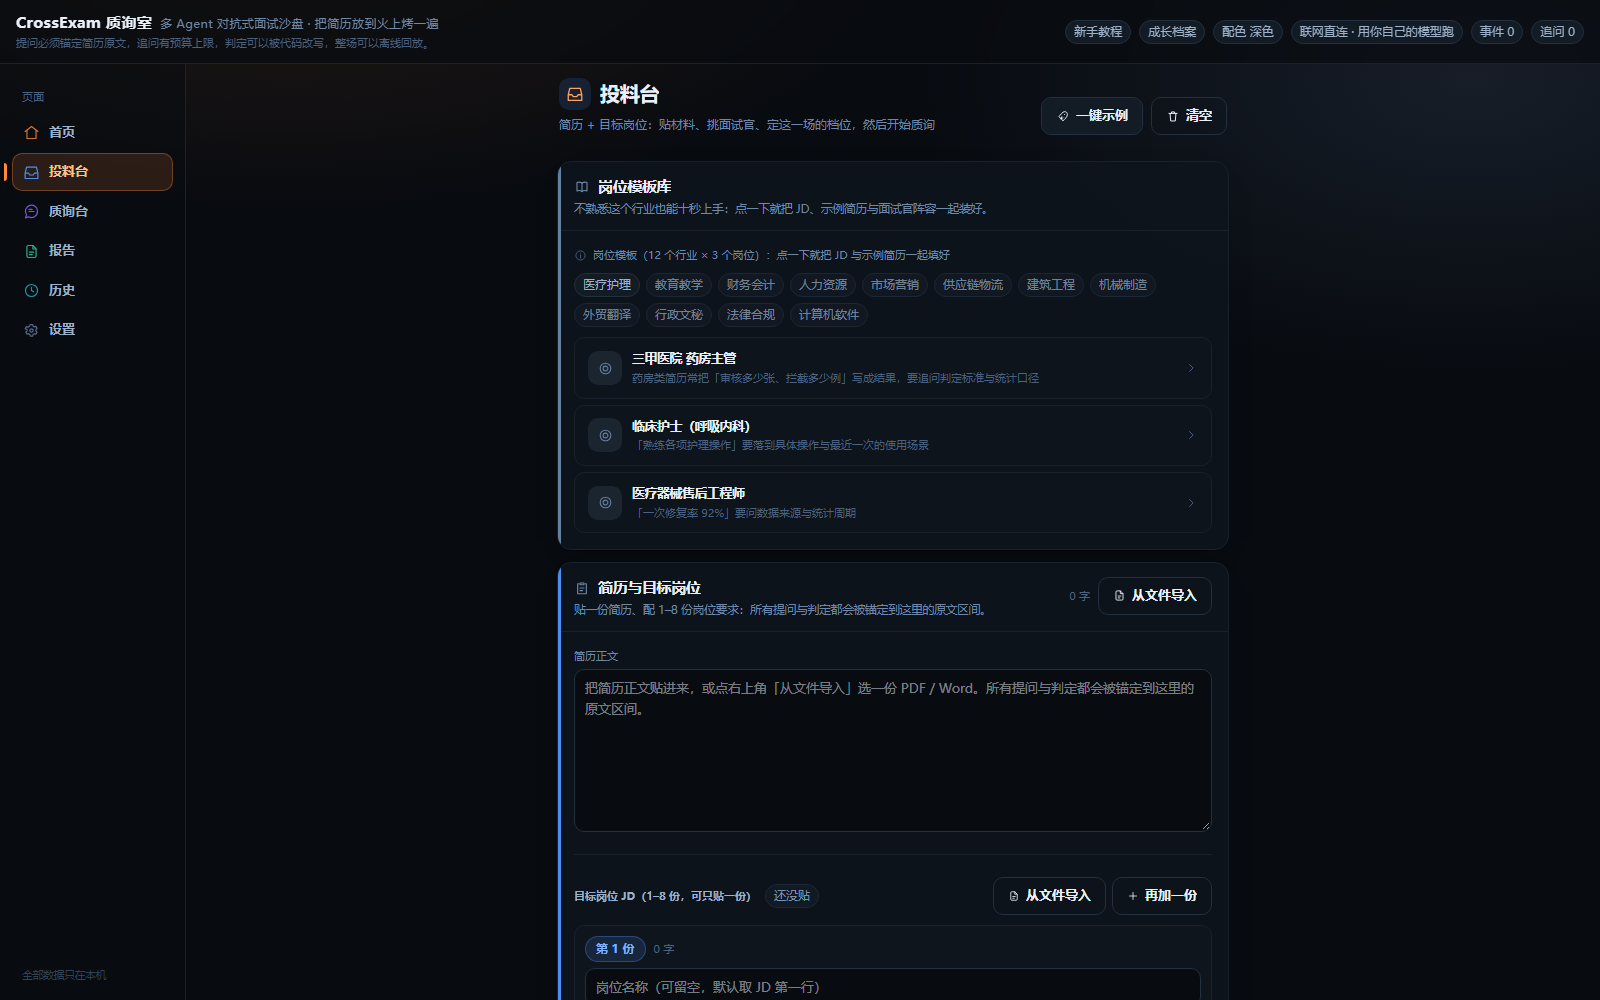
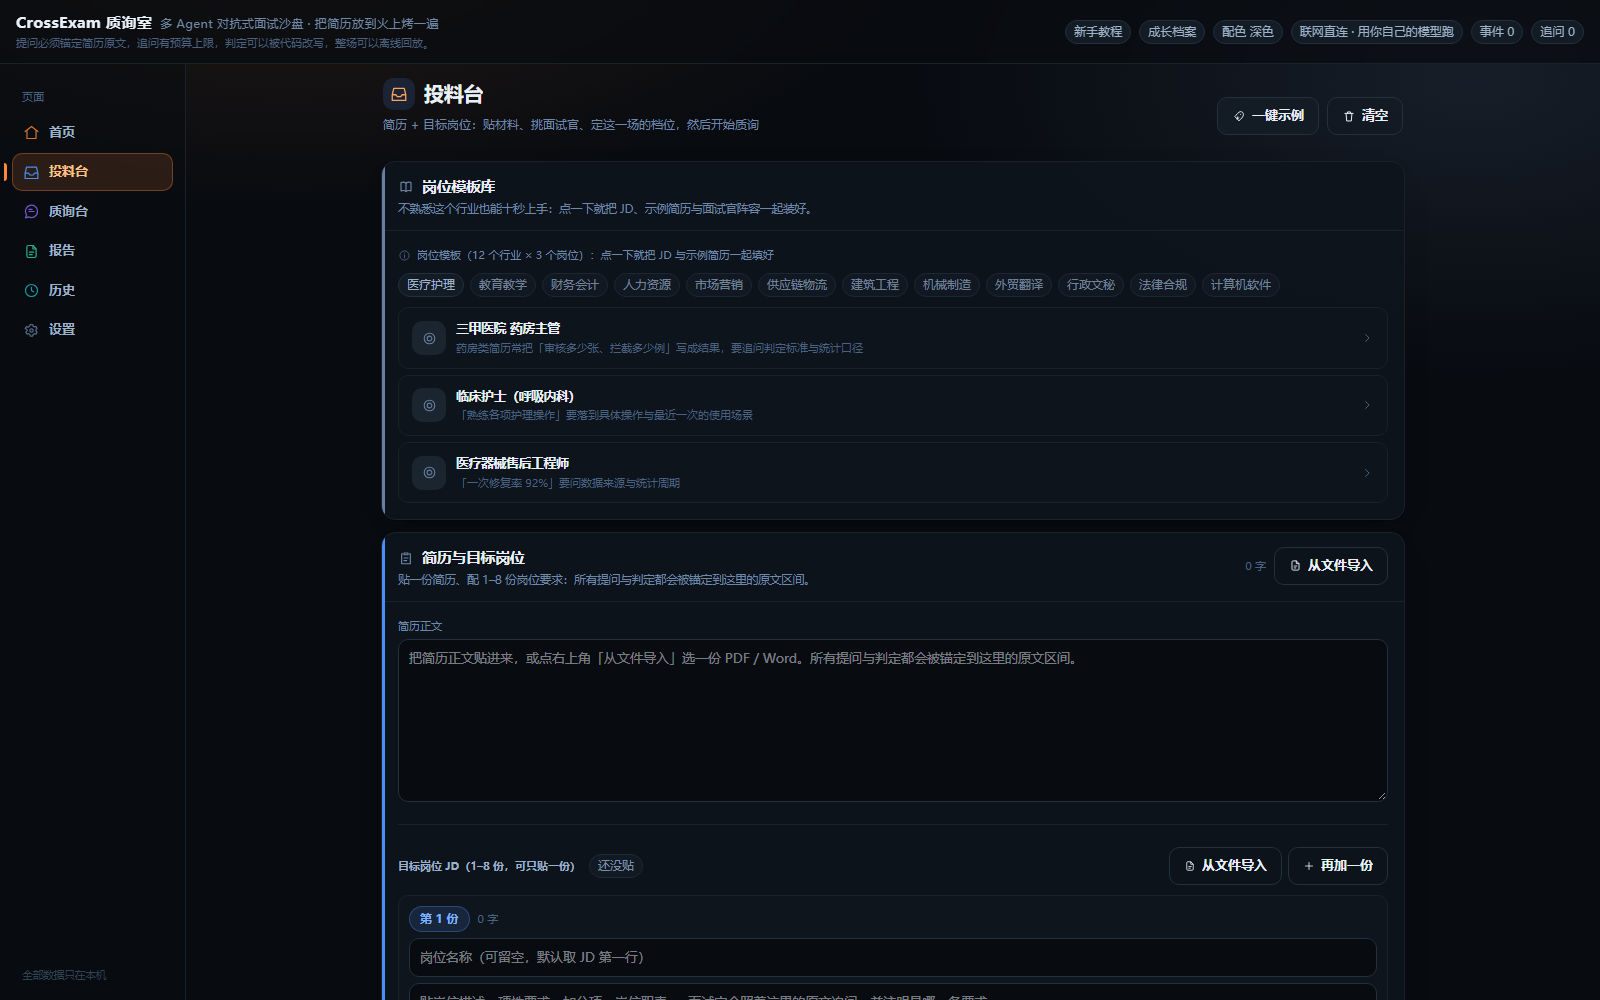
feat(web): 首页给出视觉焦点，单栏页放宽到 5xl
六个页面原来一样重，眼睛没有落点；1600 宽下正文只占约 900px，两侧空得发慌。
主视觉卡掺 7% 强调色并把主按钮放大，五个入口改成带彩色图标方块的磁贴，
强调色沿用 pages.ts 里已有的每页配色；单栏页容器在 xl 档放到 max-w-5xl。
顺手删掉重复定义的 .tile 旧块——它把横排磁贴静默改回竖排，箭头因此掉到文字左侧。

diff --git a/packages/web/src/components/HomePage.tsx b/packages/web/src/components/HomePage.tsx
@@ -1,13 +1,18 @@
 import { PAGE_ITEMS } from '../pages.ts';
 import type { PageId } from '../pages.ts';
 import type { HealthInfo, HistoryOverview, SessionSummary } from '../api.ts';
-import { Chip, Pane } from './Bits.tsx';
+import { Chip, IconTile, SectionCard } from './Bits.tsx';
+import { Icon } from './Icon.tsx';
 
 /**
  * 首页：第一眼要回答「这是什么、我现在该点哪」。
  *
  * 刻意不放任何按钮之外的东西：六个页面的入口各占一张卡片，
  * 卡片上写的是「这一页管什么」，而不是功能清单——功能清单属于教程。
+ *
+ * P16 之后这里多了两层视觉引导（原来六块卡片一样重，眼睛没有落点）：
+ * 主视觉卡掺一点琥珀底色并把主按钮放大，其余五页的磁贴用 pages.ts 里定的强调色，
+ * 「投料台是天蓝、质询台是紫」这套对应关系因此从左侧栏一路延续到首页。
  */
 export function HomePage(props: {
   health: HealthInfo | null;
@@ -20,18 +25,26 @@ export function HomePage(props: {
   onOpenWizard: () => void;
 }) {
   const latest = props.sessions[0] ?? null;
+  const pages = PAGE_ITEMS.filter((item) => item.id !== 'home');
   return (
     <div className="flex flex-col gap-3" data-shot="home-page">
-      <Pane title="把简历放到火上烤一遍" dataShot="home-hero" subtitle="多 Agent 对抗式面试沙盘">
-        <p className="text-[12.5px] leading-relaxed text-ink-300">
+      <SectionCard
+        title="把简历放到火上烤一遍"
+        desc="多 Agent 对抗式面试沙盘"
+        icon="rocket"
+        accent="ember"
+        dataShot="home-hero"
+        className="card-hero"
+      >
+        <p className="max-w-[70ch] text-[13px] leading-relaxed text-ink-300">
           喂进简历与目标岗位，几位面试官 Agent 会并发追问；每条主张都会被判成
           「站得住 / 表述过度 / 证据缺失 / 与原文矛盾 / 无法回答」，再反推回简历，
           告诉你哪一句该改、怎么改。
         </p>
-        <div className="mt-3 flex flex-wrap items-center gap-2">
+        <div className="mt-4 flex flex-wrap items-center gap-2">
           <button
             type="button"
-            className="btn btn-primary px-3 py-1.5 text-[12.5px]"
+            className="btn btn-primary px-4 py-2 text-[13px] font-semibold"
             onClick={props.onUseDemo}
             disabled={props.busy}
             data-shot="home-demo"
@@ -54,17 +67,21 @@ export function HomePage(props: {
           >
             我自己贴简历
           </button>
+        </div>
+        <div className="mt-3 flex flex-wrap items-center gap-2">
           <Chip className="border-mint-500/40 text-mint-400">不需要 API Key 也能跑完整场</Chip>
           <Chip title={props.health?.cassetteDir ?? ''}>
             {props.health === null ? '连接本地服务中…' : '卡带 ' + props.health.cassetteDir.split(/[\\/]/).pop()}
           </Chip>
         </div>
-      </Pane>
+      </SectionCard>
 
-      <Pane
+      <SectionCard
         title="最近一场"
+        desc={latest === null ? '还没有跑过' : latest.jobTitle}
+        icon="clock"
+        accent="sky"
         dataShot="home-latest"
-        subtitle={latest === null ? '还没有跑过' : latest.jobTitle}
       >
         {latest === null ? (
           <p className="text-[12px] leading-relaxed text-ink-400">
@@ -98,19 +115,23 @@ export function HomePage(props: {
             {props.overview.headline}
           </p>
         )}
-      </Pane>
+      </SectionCard>
 
       <div className="grid gap-2 sm:grid-cols-2 xl:grid-cols-3">
-        {PAGE_ITEMS.filter((item) => item.id !== 'home').map((item) => (
+        {pages.map((item) => (
           <button
             key={item.id}
             type="button"
             data-shot={'home-card-' + item.id}
-            className="rounded-lg border border-ink-800 bg-ink-900/60 p-3 text-left transition-colors hover:border-ember-500/40"
+            className={'tile accent-' + item.accent}
             onClick={() => props.onOpenPage(item.id)}
           >
-            <span className="block text-[13px] font-semibold text-ink-100">{item.label}</span>
-            <span className="mt-1 block text-[11.5px] leading-relaxed text-ink-400">{item.blurb}</span>
+            <IconTile icon={item.icon} accent={item.accent} />
+            <span className="min-w-0 flex-1">
+              <span className="block text-[13px] font-semibold text-ink-100">{item.label}</span>
+              <span className="mt-0.5 block text-[11.5px] leading-relaxed text-ink-400">{item.blurb}</span>
+            </span>
+            <Icon name="chevron-right" size={14} className="ml-auto shrink-0 text-ink-600" />
           </button>
         ))}
       </div>

diff --git a/packages/web/src/index.css b/packages/web/src/index.css
@@ -415,6 +415,36 @@ mark.anchor-revised {
 .accent-rose  { --cx-accent: var(--color-rose-ink); }
 .accent-slate { --cx-accent: color-mix(in oklab, var(--color-ink-400) 80%, var(--color-ink-500)); }
 
+/* 首页的主视觉卡：底色掺一点强调色，让「从哪开始」这一块和下面的卡片拉开层次 */
+.card-hero {
+  background: color-mix(in oklab, var(--cx-accent) 7%, var(--cx-surface));
+  border-color: color-mix(in oklab, var(--cx-accent) 24%, var(--cx-hair));
+}
+
+/* 首页的入口磁贴：颜色沿用 pages.ts 里定好的每页强调色，悬停时描边跟着变色 */
+.tile {
+  display: flex;
+  align-items: center;
+  gap: 10px;
+  padding: 12px 14px;
+  cursor: pointer;
+  border: 1px solid var(--cx-hair);
+  border-radius: var(--cx-radius-sm);
+  background: var(--cx-surface);
+  box-shadow: var(--cx-shadow);
+  text-align: left;
+  transition: border-color 140ms ease, box-shadow 140ms ease, transform 140ms ease;
+}
+.tile:hover {
+  border-color: color-mix(in oklab, var(--cx-accent) 55%, var(--cx-hair));
+  box-shadow: var(--cx-shadow-lift);
+  transform: translateY(-1px);
+}
+.tile:focus-visible {
+  outline: 2px solid var(--cx-accent);
+  outline-offset: 2px;
+}
+
 /* ---------- 页头 ---------- */
 .page-head {
   display: flex;
@@ -626,25 +656,7 @@ mark.anchor-revised {
   color: var(--color-ink-500);
 }
 
-/* ---------- 入口磁贴 ---------- */
-.tile {
-  display: flex;
-  flex-direction: column;
-  gap: 8px;
-  padding: 14px;
-  text-align: left;
-  background: var(--cx-surface);
-  border: 1px solid var(--cx-hair);
-  border-radius: var(--cx-radius);
-  box-shadow: var(--cx-shadow);
-  cursor: pointer;
-  transition: transform 0.12s ease, box-shadow 0.16s ease, border-color 0.16s ease;
-}
-.tile:hover {
-  transform: translateY(-2px);
-  box-shadow: var(--cx-shadow-lift);
-  border-color: color-mix(in oklab, var(--color-ember-500) 40%, transparent);
-}
+/* ---------- 磁贴里的小图标方块 ---------- */
 .tile-ico {
   display: inline-flex;
   align-items: center;

diff --git a/packages/web/src/components/Bits.tsx b/packages/web/src/components/Bits.tsx
@@ -23,15 +23,24 @@ export function PageHead(props: {
     <header className="page-head" data-shot="page-head">
       <div className="min-w-0">
         <h1 className="page-title">
-          <span className={'inline-flex h-8 w-8 items-center justify-center rounded-[10px] ' + accentBox(props.accent ?? 'ember')}>
-            <Icon name={props.icon} size={18} />
-          </span>
+          <IconTile icon={props.icon} accent={props.accent} size={18} />
           <span className="truncate">{props.title}</span>
         </h1>
         {props.sub === undefined ? null : <p className="page-sub">{props.sub}</p>}
       </div>
       {props.actions === undefined ? null : <div className="page-head-actions">{props.actions}</div>}
     </header>
+  );
+}
+
+/** 图标磁片：页头、首页磁贴、卡片标题共用同一个形状与底色规则 */
+export function IconTile(props: { icon: IconName; accent?: Accent; size?: number }) {
+  return (
+    <span
+      className={'inline-flex h-8 w-8 shrink-0 items-center justify-center rounded-[10px] ' + accentBox(props.accent ?? 'ember')}
+    >
+      <Icon name={props.icon} size={props.size ?? 16} />
+    </span>
   );
 }
 
@@ -61,12 +70,16 @@ export function SectionCard(props: {
   dataShot?: string;
   /** 关掉左侧色条（默认开着） */
   plain?: boolean;
+  /** 额外的类名（首页主视觉卡用它掺底色） */
+  className?: string;
 }) {
   const accent = props.accent ?? 'ember';
   return (
     <section
       data-shot={props.dataShot}
-      className={'card ' + (props.plain === true ? '' : 'accent-bar accent-' + accent)}
+      className={
+        'card ' + (props.plain === true ? '' : 'accent-bar accent-' + accent) + (props.className === undefined ? '' : ' ' + props.className)
+      }
     >
       <div className="card-head">
         <div className="min-w-0">

diff --git a/packages/web/src/App.tsx b/packages/web/src/App.tsx
@@ -1125,7 +1125,7 @@ export function App() {
 
         <main className="min-h-0 flex-1 overflow-auto p-3">
           {page === 'home' ? (
-            <div className="mx-auto max-w-4xl">
+            <div className="mx-auto w-full max-w-4xl xl:max-w-5xl">
               <HomePage
                 health={health}
                 overview={overview}
@@ -1140,7 +1140,7 @@ export function App() {
           ) : null}
 
           {page === 'intake' ? (
-            <div className="mx-auto max-w-2xl">
+            <div className="mx-auto w-full max-w-4xl xl:max-w-5xl">
               <IntakePanel
             templatePicker={
               <TemplatePicker
@@ -1310,7 +1310,7 @@ export function App() {
           ) : null}
 
           {page === 'report' ? (
-            <div className="mx-auto max-w-4xl">
+            <div className="mx-auto w-full max-w-4xl xl:max-w-5xl">
               <ReportPage
                 sessionId={sandbox.sessionId}
                 jobTitle={material.title}
@@ -1330,7 +1330,7 @@ export function App() {
           ) : null}
 
           {page === 'history' ? (
-            <div className="mx-auto max-w-4xl">
+            <div className="mx-auto w-full max-w-4xl xl:max-w-5xl">
               <HistoryPanel
                 sessions={sessions}
                 overview={overview}
@@ -1342,7 +1342,7 @@ export function App() {
           ) : null}
 
           {page === 'settings' ? (
-            <div className="mx-auto max-w-3xl">
+            <div className="mx-auto w-full max-w-3xl xl:max-w-4xl">
               <SettingsPage
                 theme={theme}
                 onToggleTheme={handleToggleTheme}
